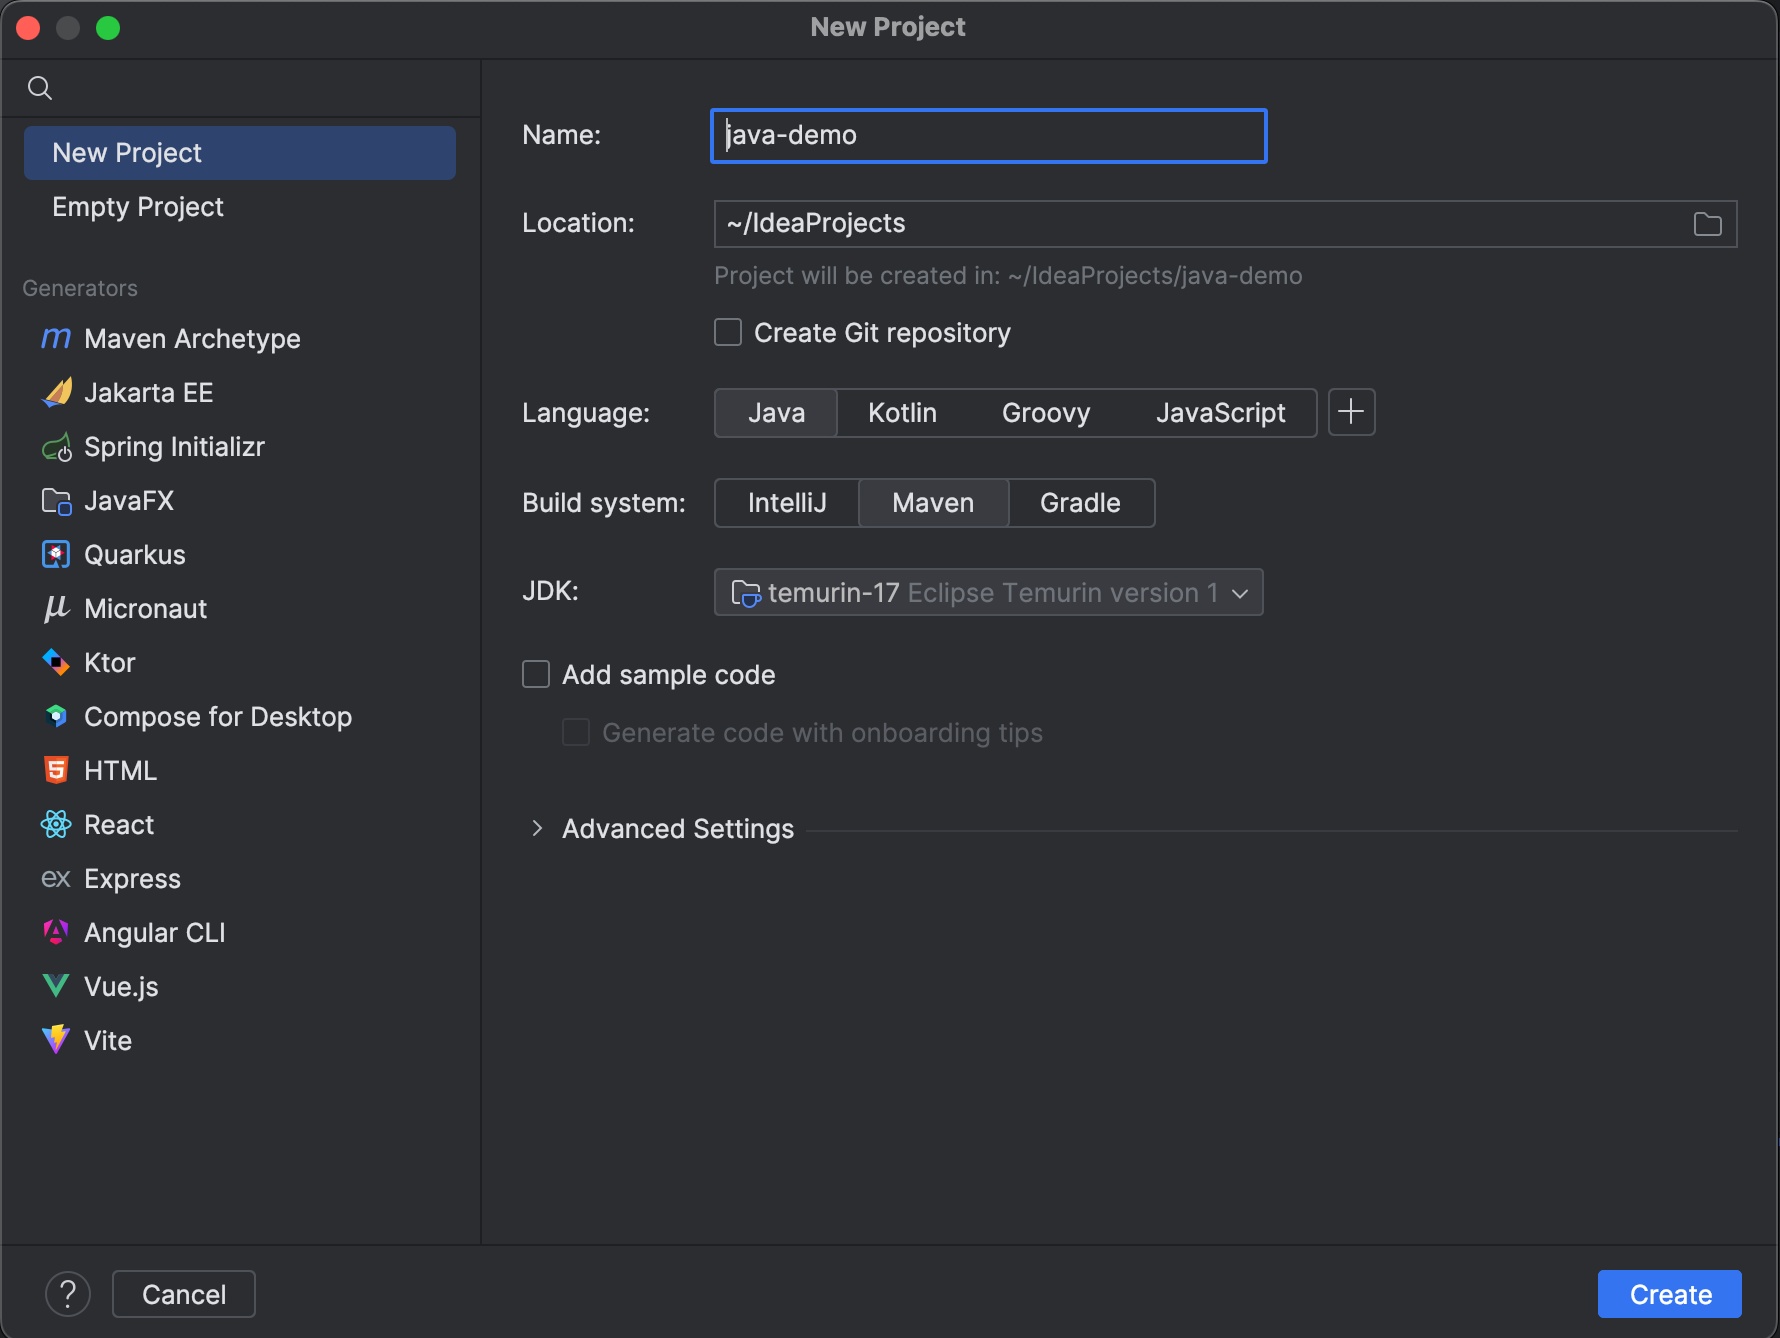
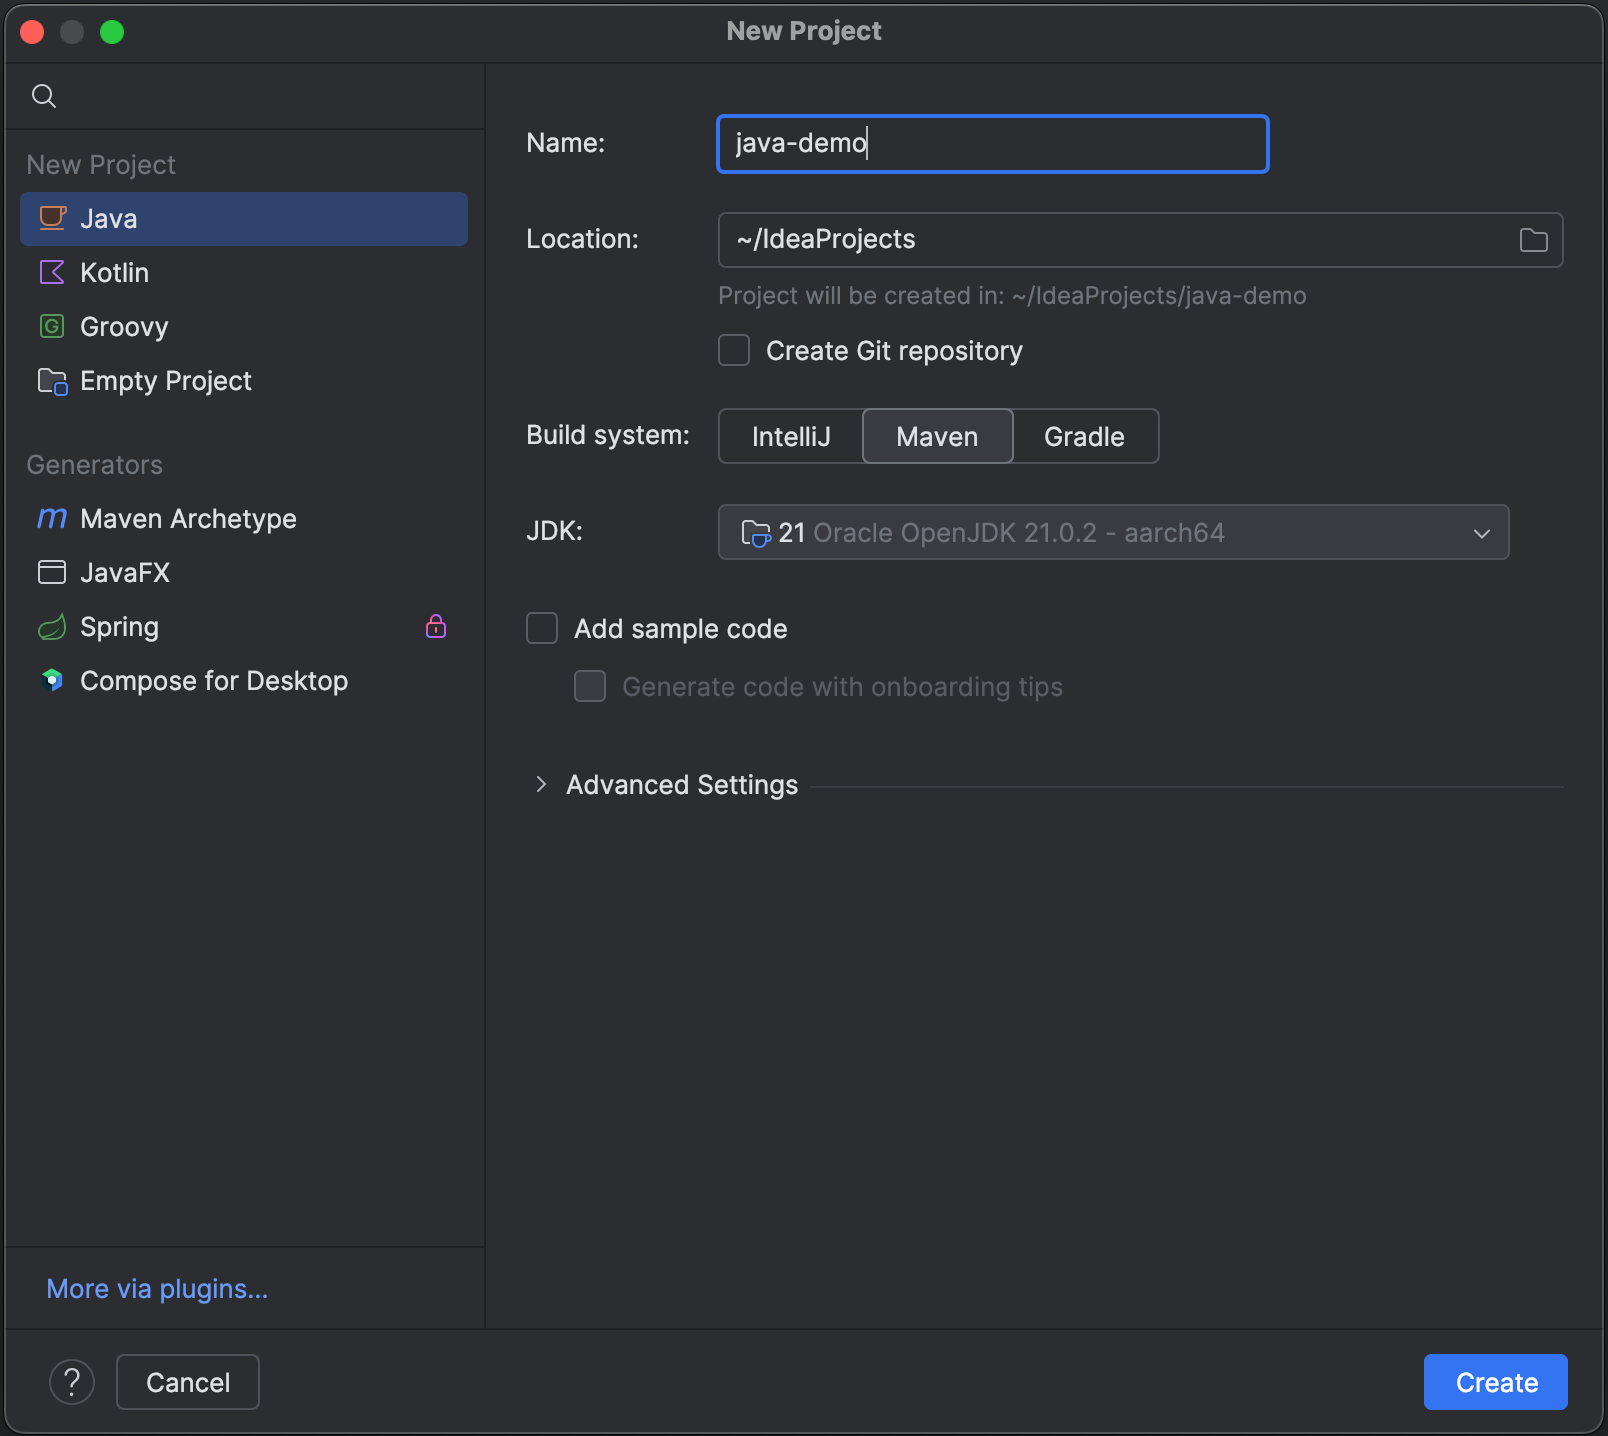
Final fixes as discussed with Ana

diff --git a/app/pages/learn/01_tutorial/01_your-first-java-app/02_building-with-intellij-idea.md b/app/pages/learn/01_tutorial/01_your-first-java-app/02_building-with-intellij-idea.md
@@ -12,6 +12,7 @@ more_learning:
     - H_XxH66lm3U
     - 70_B2DyM8mU
 toc:
+- Overview
 - Installing IntelliJ IDEA
 - Creating a new project
 - Writing and editing code
@@ -21,39 +22,38 @@ toc:
 - Refactoring code
 - Documenting code
 - Searching and navigating
-- Evolving the project
-- More information
+- Summary
 description: "Learn how to code, run, test, debug and document a Java application faster in IntelliJ IDEA."
-last_update: 2024-04-03
+last_update: 2024-04-04
 author: ["MaritvanDijk"]
 ---
 
+## Overview
 An IDE (Integrated Development Environment) allows you to quickly build applications, by integrating a source-code editor with the ability to compile and run your code, as well as integration with  tools you’ll need for software development, including build tools, testing and debugging tools, version control, and so on. And finally, an IDE will let you search and navigate your codebase in ways your file system won’t.
 
-IntelliJ IDEA is one of the [most widely used IDE for Java developers](https://www.jetbrains.com/lp/devecosystem-2023/java/#java_ide). It has out-of-the-box integrations with the tools a Java developer will need to start coding immediately, with no need to install any additional plugins.
-IntelliJ IDEA is available in two editions:
+One of the [most widely used integrated development environments (IDEs)](https://www.jetbrains.com/lp/devecosystem-2023/java/#java_ide) for Java is IntelliJ IDEA. Its user-friendly interface, rich feature set, and vast ecosystem make it an ideal environment for beginners to learn and grow as developers. In this tutorial you’ll learn how to use some of its features to simplify your development process and accelerate your learning curve with Java programming.
+
+## Installing IntelliJ IDEA
+To install IntelliJ IDEA, download the version you want to use from the [IntelliJ IDEA website](https://www.jetbrains.com/idea/) and follow the instructions.
+Note that IntelliJ IDEA is available in two editions:
 - **_IntelliJ IDEA Community Edition_** - free and open-source. It provides all the basic features for Java development.
 - **_IntelliJ IDEA Ultimate_** - commercial, distributed with a 30-day trial period. It provides additional tools and features for web and enterprise development.
 
-## Installing IntelliJ IDEA
-To install IntelliJ IDEA, download the version you want to use from the [IntelliJ IDEA website](https://www.jetbrains.com/idea/) and follow the instructions. For more information on installing IntelliJ IDEA on your OS, see [the documentation](https://www.jetbrains.com/help/idea/installation-guide.html#standalone).
+For this tutorial, you can download the Community Edition. For more information on installing IntelliJ IDEA on your OS, see [the documentation](https://www.jetbrains.com/help/idea/installation-guide.html#standalone).
 
 When you launch IntelliJ IDEA for the first time, you’ll see the **Welcome** screen. From here, you create a new project, open an existing project, or get a project from a version control system (like GitHub).
 
 [![Welcome screen](/assets/images/intellij-idea/welcome-screen.png)](/assets/images/intellij-idea/welcome-screen.png)
 
-There is no need to install any additional plugins to get started; the most common integrations are already available as part of the IDE or as bundled plugins. Of course, you can [customize the IDE](https://www.jetbrains.com/help/idea/run-for-the-first-time.html#select-ui-theme) further, or [install additional plugins](https://www.jetbrains.com/help/idea/run-for-the-first-time.html#additional_plugins) if you really want to.
-
-You will need to install a JDK, if you don’t already have one installed. You can do this yourself, as described in [Getting Started with Java](https://dev.java/learn/getting-started/#setting-up-jdk), or you can do so in IntelliJ IDEA when creating a new project, without having to switch from your IDE and other tools (such as your browser, file system, etc.) to download and configure a JDK.
+To start working with Java, you will need to install a JDK. You can do this yourself, as described in [Getting Started with Java](https://dev.java/learn/getting-started/#setting-up-jdk), or you can do so in IntelliJ IDEA when creating a new project, without having to switch from your IDE and other tools (such as your browser, file system, etc.) to download and configure a JDK.
 
 ## Creating a new project
-As mentioned above, we can create a new project from the **Welcome** screen. Alternatively, we can go to **File | New | Project** in the main menu.
+We can create a new project from the **Welcome** screen, or we can go to **File | New | Project** in the main menu.
 
 [![New Project menu](/assets/images/intellij-idea/new-project-menu.png)](/assets/images/intellij-idea/new-project-menu.png)
 
-In the **New Project** wizard, make sure that **New Project** is selected on the left hand side.
-
-Give your project a name (for example `java-demo`) and make sure the selected **Language** is `Java`. Next, we'll select a **Build system**. IntelliJ IDEA supports both Maven and Gradle, the most used build systems for Java. A build tool, like Maven or Gradle, helps you to build your project, and manage any dependencies (like additional libraries) that you want to use in your Java code. Using a build tool will also make it easier to share your application and build it on a different machine. If you don't want to use either, you can use the IntelliJ build system. In this tutorial, let’s create a Maven project.
+In the **New Project** wizard, make sure that **Java** is selected on the left hand side, and give your project a name (for example, `java-demo`).
+Next, we'll select a **Build system**. IntelliJ IDEA supports both Maven and Gradle; the most used build systems for Java. A build tool, like Maven or Gradle, helps you to build your project, and manage any dependencies (like additional libraries) that you want to use in your Java code. Using a build tool will also make it easier to share your application and build it on a different machine. If you don't want to use either, you can use the IntelliJ build system. In this tutorial, let’s create a Maven project.
 
 [![New Project](/assets/images/intellij-idea/new-project.png)](/assets/images/intellij-idea/new-project.png)
 
@@ -84,7 +84,7 @@ Let’s add some code. We’ll start by creating a new class. In the **Project**
 [![New Java class](/assets/images/intellij-idea/new-java-class.png)](/assets/images/intellij-idea/new-java-class.png)
 
 ## Writing and editing code
-Inside the class `HelloWorld`, we will write the main method, which is where execution of our Java program will start.
+Inside the class `HelloWorld`, we will write the main method; which is where execution of our Java program will start.
 The classic way to write a main method in Java is:
 ```java
 public static void main(String[] args) {
@@ -156,11 +156,11 @@ We can select a **Testing library** in the **Create test** popup.
 
 [![Create test](/assets/images/intellij-idea/create-test.png)](/assets/images/intellij-idea/create-test.png)
 
-IntelliJ IDEA supports multiple testing libraries, including [JUnit5](https://junit.org/junit5/), which is the [most used testing library for Java developers](https://www.jetbrains.com/lp/devecosystem-2023/java/#java_unittesting). If JUnit5 is not part of your project yet, IntelliJ IDEA will note “JUnit5 library not found in the module”. Click **Fix** to have IntelliJ IDEA fix this for you.
+IntelliJ IDEA supports multiple testing libraries, including [JUnit 5](https://junit.org/JUnit5/), which is the [most used testing library for Java developers](https://www.jetbrains.com/lp/devecosystem-2023/java/#java_unittesting). If JUnit 5 is not part of your project yet, IntelliJ IDEA will note “JUnit5 library not found in the module”. Click **Fix** to have IntelliJ IDEA fix this for you.
 
-Note that the JUnit5 dependency is added to the `pom.xml` in the `<dependencies>` section.
+Note that the JUnit 5 dependency `junit-jupiter` is added to the `pom.xml` in the `<dependencies>` section.
 
-[![JUnit5 dependencies](/assets/images/intellij-idea/junit5-dependencies.png)](/assets/images/intellij-idea/junit5-dependencies.png)
+[![JUnit5 dependencies](/assets/images/intellij-idea/JUnit5-dependencies.png)](/assets/images/intellij-idea/JUnit5-dependencies.png)
 
 Go back to the test file to add tests. We can let IntelliJ IDEA help us generate our test for us. In the test class, we can use **Generate** (**⌘N** on macOS or **Alt+Insert** on Windows/Linux) and select **Test Method** to add a test. Give the test a name that explains the intended behavior, and add the relevant test code.
 
@@ -256,14 +256,7 @@ Open Find in Files from the main menu using **Edit | Find | Find in Files**, or 
 
 [![Find in Files](/assets/images/intellij-idea/find-in-files.png)](/assets/images/intellij-idea/find-in-files.png)
 
-## Evolving the project
+## Summary
 In this article, we’ve seen how IntelliJ IDEA can help you with code suggestions and completion while writing code, running your application, adding tests and using the debugger to help figure out how code is run, refactoring code, and more.
 
-In the future, you might want to add more functionality to your project, and upgrade the Java version your project uses to take advantage of cool new language features.
-
-IntelliJ IDEA continues to improve and evolve, adding new features and offering new integration. This includes inspections for new Java language features. [Feedback is welcome](https://youtrack.jetbrains.com/issues/IDEA).
-
-[IntelliJ IDEA Community Edition](https://github.com/JetBrains/intellij-community) is an open-source project, and community contributions are welcome. Check the [contribution guide](https://github.com/JetBrains/intellij-community/blob/master/CONTRIBUTING.md) to contribute to IntelliJ IDEA, or the [IntelliJ Platform](https://plugins.jetbrains.com/docs/intellij/intellij-platform.html).
-
-## More information
-For more information on IntelliJ IDEA, have a look at the [documentation](https://www.jetbrains.com/help/idea/getting-started.html), the [blog](https://blog.jetbrains.com/idea/), the [YouTube channel](https://www.youtube.com/intellijidea), or the [guide](https://www.jetbrains.com/guide/java/).
+IntelliJ IDEA continues to improve and evolve, adding new features and offering new integration. You can sharpen your coding skills by taking a look at the [documentation](https://www.jetbrains.com/help/idea/getting-started.html), [blog](https://blog.jetbrains.com/idea/), [YouTube channel](https://www.youtube.com/intellijidea), or [guide](https://www.jetbrains.com/guide/java/).
